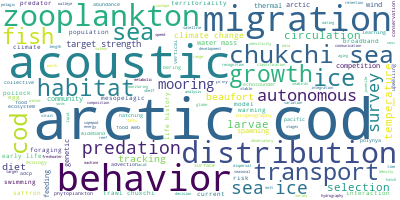
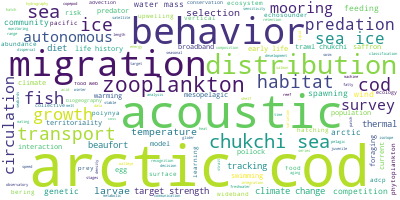
Eriksen

diff --git a/papers/arctic/fishes/Eriksen2015RSMS.md b/papers/arctic/fishes/Eriksen2015RSMS.md
@@ -1,0 +1,20 @@
+06/20/20
+## Authors:
+Eriksen, E. and Ingvaldsen, R. B. and Nedreaas, K. and Prozorkevich, D.
+## Title:
+The effect of recent warming on polar cod and beaked redfish juveniles in the Barents Sea
+## Keywords:
+thermal habitat, 0-group fish, redfish, Barents Sea
+## Geographic Coverage
+Barents Sea
+## Field Dates:
+N/A
+## Significance:
+Decadal trends in distribution of polar cod and redfish in the Barents Sea, indicating that temperature is a likely important driver of abundance, distribution, and growth in  age-0 polard cod and redfish.
+
+## Notes:
+Copepods are the majority of the diet of juvenile polar cod and redfish, which reach maximum biomass in the Barents in mid-summer due to advection of finmarchicus from Atlantic water and glacialis from Arctic waters. Finmarchicus biomass has increased in recent years due to increased advection of Atlantci water. Here, they look at page-0 olar cod and redfish in relationship to temperature from survey time series of 1980-2008.
+
+Pelagic trawls were conducted at 8851 sites in the upper 50 m. Survey results are only compared over identical survey areas. At each trawl station, CTDs were conducted and observations were averaged to standard depths. Fish density was calculates as individuals per square nautical mile.
+
+In the 1980s, polar cod biomass was low, while in the 90s and 00s it was higher and greater in the eastern Barents than west. Redfish densities were highest in the 90s, with high variability in the north. There were distinct modelled peak temperature ranges of 2-5.5 and 5.5-8.5 for polar cod and redfish. Redfish densities increased with increasing temperatures while polar cod peaked around 5.5 degrees. Both fish increased in length with temperature. The lower range of the polar cod temperature dependencies is not quite known due to the variability in sea ice resticting surveys. Ice coverage in both svalbard and the pechora sea is decreasing with time. Because of the increased abundance to the east, a reduction in sea ice and furthered warming could further restrict suitable spawning already restricted to the east. Age-0 redfish may have thermal tolerance beyond what was observed in this study, and are likely more widely distributed in the Norweigian sea.

diff --git a/README.md b/README.md
@@ -152,6 +152,8 @@ Notes (author, year, journal in file header) on readings.  Top of each note docu
      * Variation in winter ice conditions is the main driver of polar cod length-at-age. Early ice retreat in the Brents leads to higher survival of early hatchers and possible faster growth, resulting in a larger length-at-age for age-0 cohort. 
 * [Eisner2013PB - Pelagic fish and zooplankton species assemblages in relation to water mass characteristics in the northern Bering and southeast Chukchi seas](https://github.com/leviner/ReadingList/tree/master/papers/arctic/fishes/Eisner2013PB.md) 
      * Characterization of the zooplankton and pelagic fish community in relation to the physical and biological properties of the water masses in the northern Bering and southern Chukchi Seas. 
+* [Eriksen2015RSMS - The effect of recent warming on polar cod and beaked redfish juveniles in the Barents Sea](https://github.com/leviner/ReadingList/tree/master/papers/arctic/fishes/Eriksen2015RSMS.md) 
+     * Decadal trends in distribution of polar cod and redfish in the Barents Sea, indicating that temperature is a likely important driver of abundance, distribution, and growth in  age-0 polard cod and redfish. 
 * [EvseenkoBolshakova2020JI - Morphological Adaptations of Polar Cod Boreogadus saida (Gadidae) to a Life in the Ice Conditions](https://github.com/leviner/ReadingList/tree/master/papers/arctic/fishes/EvseenkoBolshakova2020JI.md) 
      * Morphology of scales and spiny bone plates of Boreogadus saida. The plates are only present on boreogadus and are potentially used to protect against contact with ice and reduce liminar flow around the body. 
 * [Forster2020PB - Spatial patterns, environmental correlates, and potential seasonal migration triangle of polar cod (Boreogadus saida) distribution in the Chukchi and Beaufort seas](https://github.com/leviner/ReadingList/tree/master/papers/arctic/fishes/Forster2020PB.md) 
